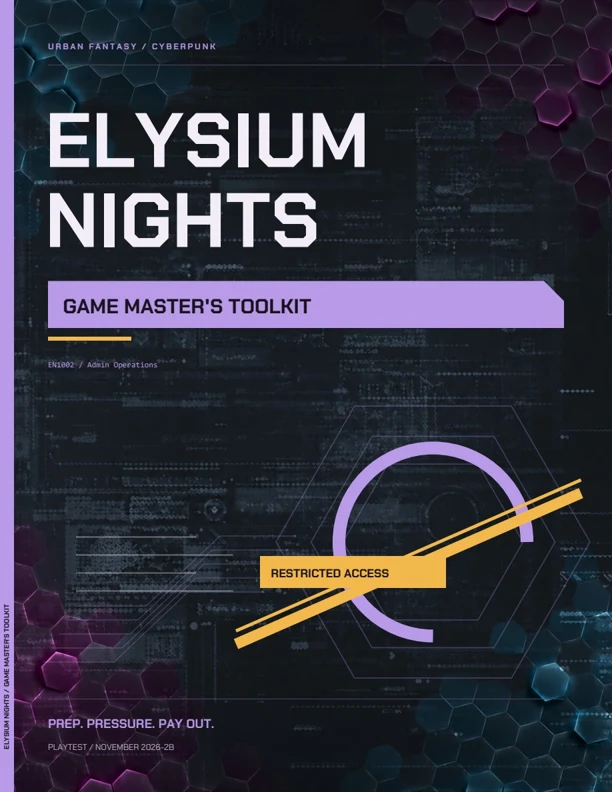
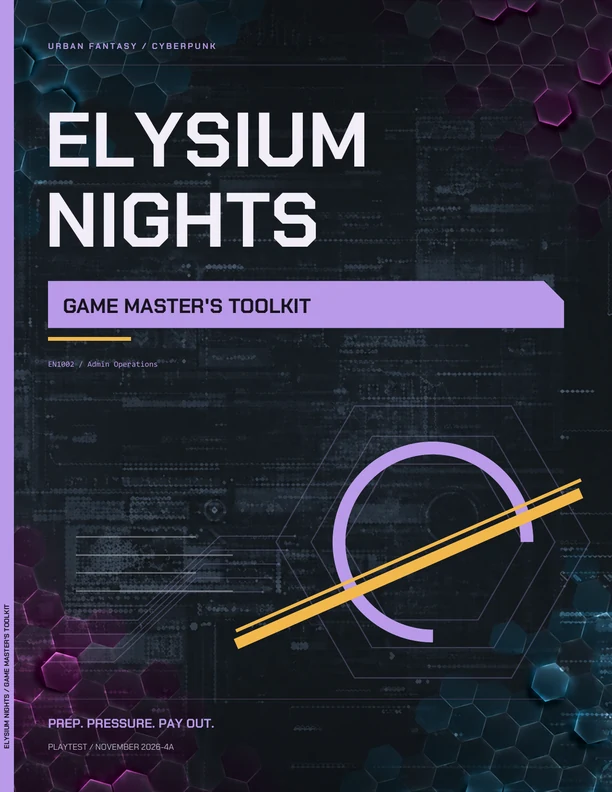
Bring the backup covers and typed book lines up to 5B and 4A
The backup covers, shown only if Drive's preview fails, now come from
the Player's Handbook 5B (new tagline: JACK IN. GEAR UP. GET PAID.) and
the GM Toolkit 4A. The typed date lines, shown only if the books feed
doesn't answer, now read November 5, 2026 with 5B and 4A.

Claude-Session: https://claude.ai/code/session_014RCJysVU5nFx92hELRMbx6

diff --git a/index.html b/index.html
@@ -76,8 +76,8 @@
   <div class="section-heading"><div><span class="eyebrow cyan">YOUR NEXT SESSION STARTS HERE</span><h2>The city is ready.<br><em>Pull up a chair.</em></h2></div><p>Download the books, take them to your table,<br>and tell us what held up under pressure.<br><span class="small">Playtest drafts. Rules and page numbers may change.</span></p></div>
   <div class="download-filters" role="group" aria-label="Filter playtest books"><button aria-pressed="true" data-filter="all">All books</button><button aria-pressed="false" data-filter="player">For players</button><button aria-pressed="false" data-filter="admin">For Admins</button></div>
   <div class="books" aria-live="polite">
-   <article class="book" data-audience="player" data-drive-id="1WEcqaKJwGbDxiKOOQobW4b7CWUzFVkXg"><a class="cover" href="https://drive.google.com/file/d/1WEcqaKJwGbDxiKOOQobW4b7CWUzFVkXg/view?usp=sharing" target="_blank" rel="noopener" aria-label="Open Player's Handbook PDF"><img src="assets/players-handbook.webp" alt="Elysium Nights Player's Handbook cover" width="612" height="792" loading="lazy"><span>START HERE ↗</span></a><div class="book-meta"><span>EN1001</span><span>150 PAGES / PDF</span></div><h3>Player's Handbook</h3><p>Build your Freelancer. Learn the core rules, the Flow, the #GRID, and life between jobs. Includes a character sheet.</p><a class="download-link" href="https://drive.google.com/uc?export=download&amp;id=1WEcqaKJwGbDxiKOOQobW4b7CWUzFVkXg">Download handbook <span aria-hidden="true">↓</span></a><small data-book-line>November 2, 2026 · 2B · 9.8 MB</small></article>
-   <article class="book" data-audience="admin" data-drive-id="15bD1eus9v84poy0Y7N4RXRUj8v3COMwo"><a class="cover" href="https://drive.google.com/file/d/15bD1eus9v84poy0Y7N4RXRUj8v3COMwo/view?usp=sharing" target="_blank" rel="noopener" aria-label="Open Game Master's Toolkit PDF, contains GM material"><img src="assets/gm-toolkit.webp" alt="Elysium Nights Game Master's Toolkit cover" width="612" height="792" loading="lazy"><span>FOR THE ADMIN ↗</span></a><div class="book-meta"><span>EN1002</span><span>72 PAGES / PDF</span></div><h3>Game Master's Toolkit</h3><p>Run the city with job tables, threats, encounter guidance, district details, and prep tools. Contains GM material.</p><a class="download-link" href="https://drive.google.com/uc?export=download&amp;id=15bD1eus9v84poy0Y7N4RXRUj8v3COMwo">Download toolkit <span aria-hidden="true">↓</span></a><small data-book-line>November 2, 2026 · 2B · 8.3 MB</small></article>
+   <article class="book" data-audience="player" data-drive-id="1WEcqaKJwGbDxiKOOQobW4b7CWUzFVkXg"><a class="cover" href="https://drive.google.com/file/d/1WEcqaKJwGbDxiKOOQobW4b7CWUzFVkXg/view?usp=sharing" target="_blank" rel="noopener" aria-label="Open Player's Handbook PDF"><img src="assets/players-handbook.webp" alt="Elysium Nights Player's Handbook cover" width="612" height="792" loading="lazy"><span>START HERE ↗</span></a><div class="book-meta"><span>EN1001</span><span>150 PAGES / PDF</span></div><h3>Player's Handbook</h3><p>Build your Freelancer. Learn the core rules, the Flow, the #GRID, and life between jobs. Includes a character sheet.</p><a class="download-link" href="https://drive.google.com/uc?export=download&amp;id=1WEcqaKJwGbDxiKOOQobW4b7CWUzFVkXg">Download handbook <span aria-hidden="true">↓</span></a><small data-book-line>November 5, 2026 · 5B · 9.9 MB</small></article>
+   <article class="book" data-audience="admin" data-drive-id="15bD1eus9v84poy0Y7N4RXRUj8v3COMwo"><a class="cover" href="https://drive.google.com/file/d/15bD1eus9v84poy0Y7N4RXRUj8v3COMwo/view?usp=sharing" target="_blank" rel="noopener" aria-label="Open Game Master's Toolkit PDF, contains GM material"><img src="assets/gm-toolkit.webp" alt="Elysium Nights Game Master's Toolkit cover" width="612" height="792" loading="lazy"><span>FOR THE ADMIN ↗</span></a><div class="book-meta"><span>EN1002</span><span>72 PAGES / PDF</span></div><h3>Game Master's Toolkit</h3><p>Run the city with job tables, threats, encounter guidance, district details, and prep tools. Contains GM material.</p><a class="download-link" href="https://drive.google.com/uc?export=download&amp;id=15bD1eus9v84poy0Y7N4RXRUj8v3COMwo">Download toolkit <span aria-hidden="true">↓</span></a><small data-book-line>November 5, 2026 · 4A · 8.3 MB</small></article>
   </div>
  </div></section>
  <section class="section wrap faq-section"><div><span class="section-label">BEFORE YOUR FIRST JOB</span><h2>A few things<br>to <em>know.</em></h2></div><div class="faqs">
